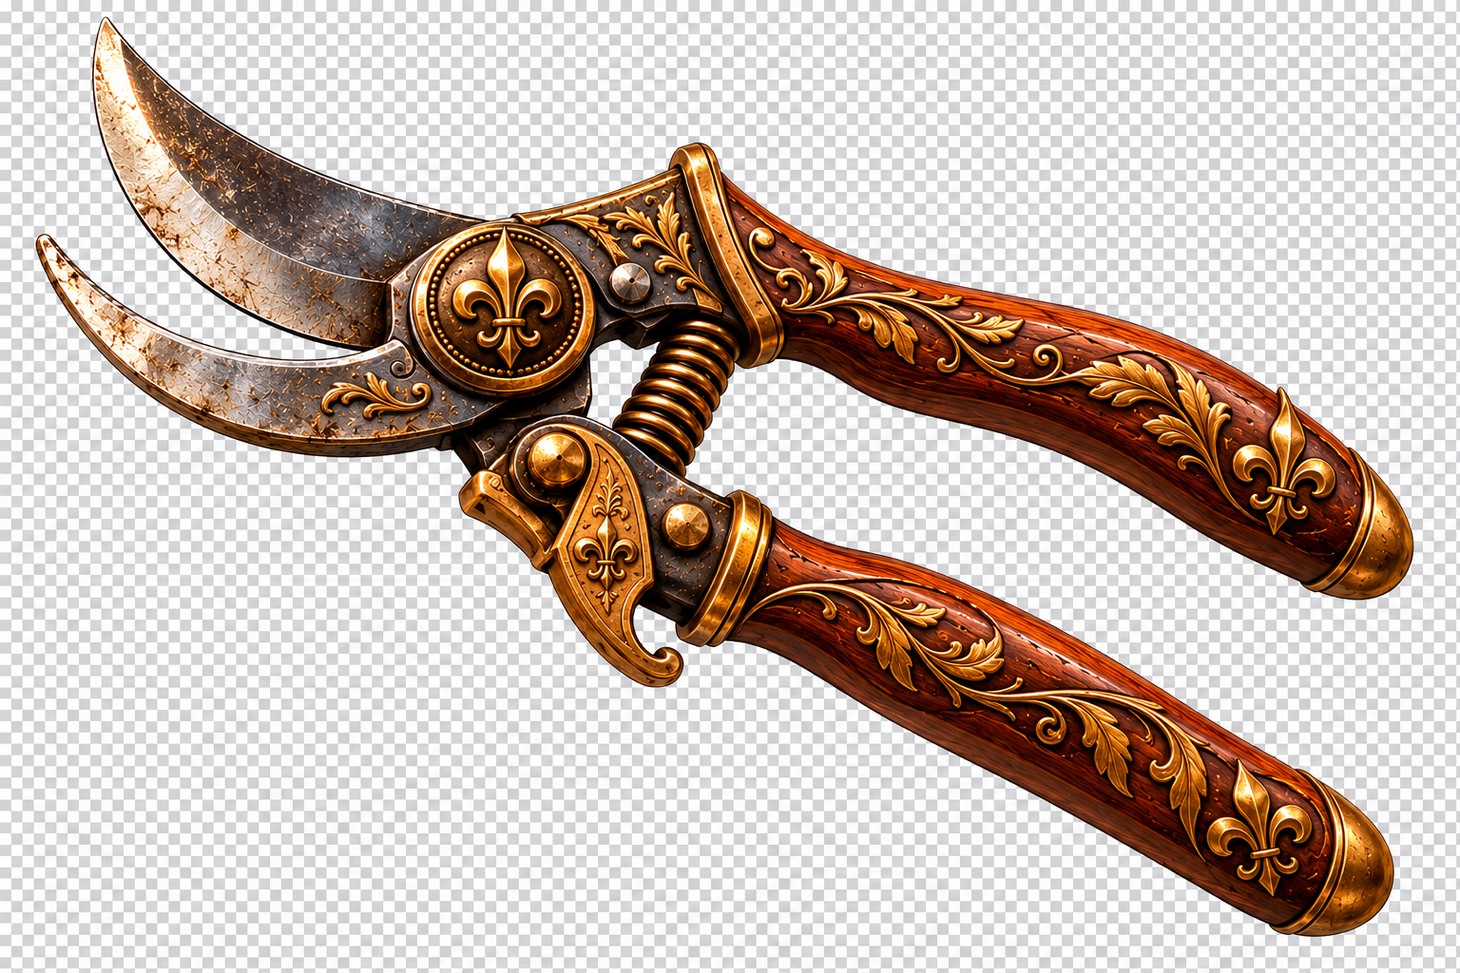
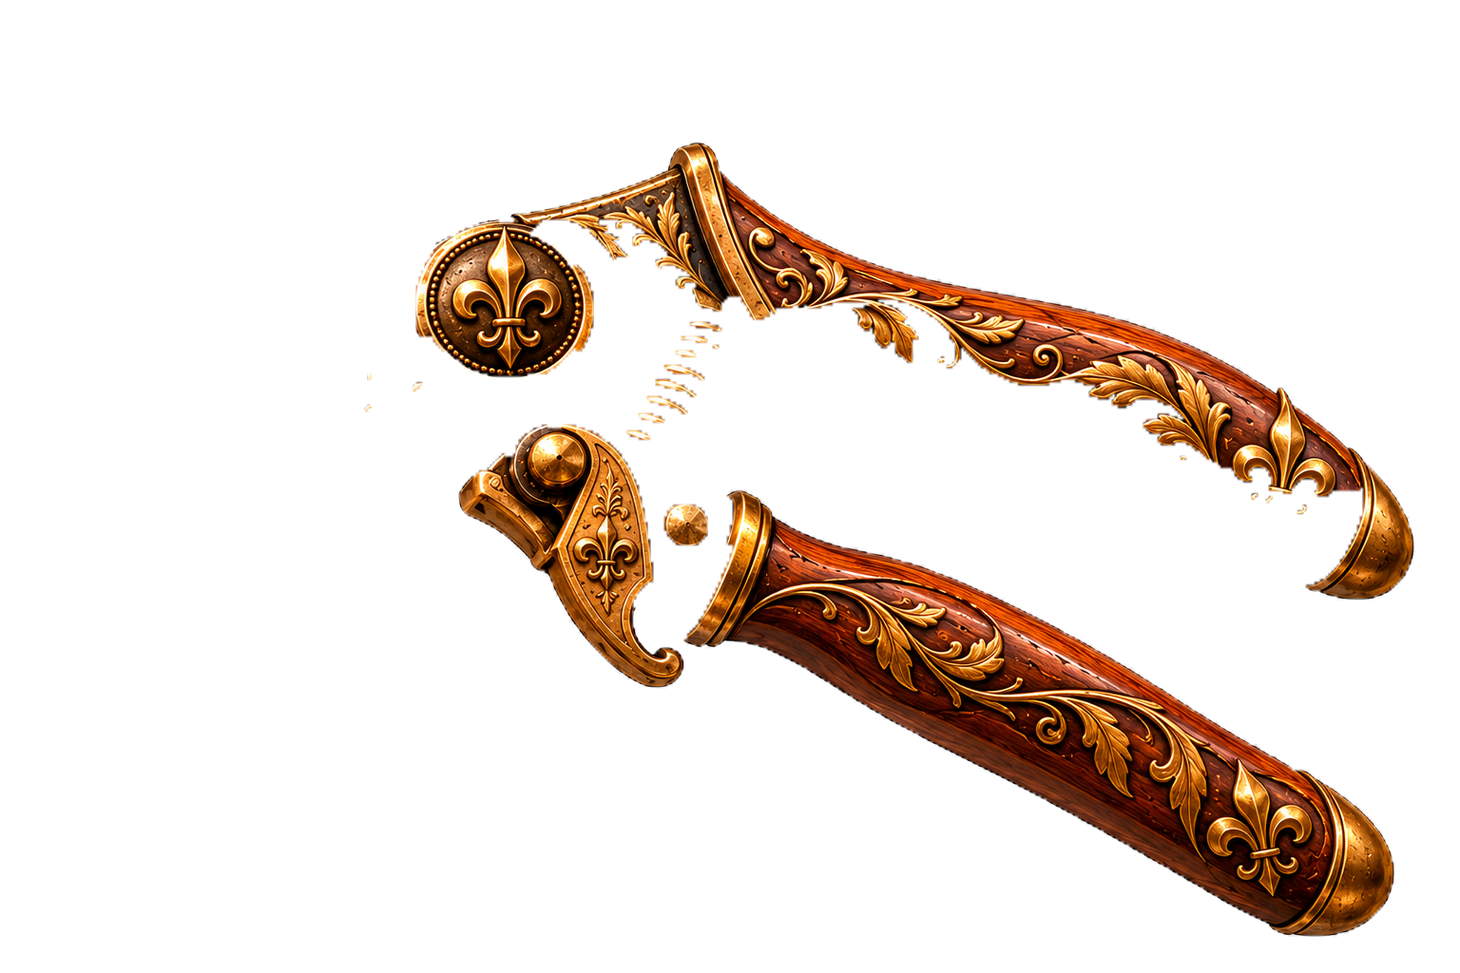
rmV12

diff --git a/index.html b/index.html
@@ -89,6 +89,21 @@ input,textarea,select{font-size:max(16px,1em)}
 .raven-answer{display:block;width:100%;text-align:left;margin:8px 0;padding:12px;border-radius:8px;border:1px solid #9a713b;background:#fff8e8;color:#30271d;font-size:15px;cursor:pointer;touch-action:manipulation}
 .raven-answer:focus-visible{outline:3px solid #715126}
 #raven-result{font-weight:bold;margin-top:10px}
+</style><style id="v12-visibility-fixes">
+/* Fixed targets: no hover motion or shifting borders */
+.room-hd-scene .scene-hotspot.object-pin,.room-hd-scene .scene-hotspot.object-pin:is(:hover,:active,:focus,:focus-visible,.is-selected){transform:translate(-50%,-50%)!important;animation:none!important;transition:none!important;outline-offset:0!important;}
+.room-hd-scene .scene-hotspot.object-pin{border:3px solid #e9c37a!important;box-sizing:border-box!important;}
+.room-hd-scene .scene-hotspot.object-pin.is-selected{border:3px solid #fff0ab!important;box-shadow:0 0 0 4px #e0ad42!important;}
+.scene-callout{position:absolute;left:50%;top:3%;transform:translateX(-50%);background:#081a26ed;border:1px solid #f0ce88;color:#fff1ce;padding:7px 12px;border-radius:6px;z-index:2;pointer-events:none;font-weight:800;font-size:clamp(10px,1.8vw,14px);white-space:nowrap}
+.object-preview{border:3px solid #e4b75f!important;background:#102f39!important;min-height:130px!important}
+.scene-feedback{border:3px solid #b58732!important;background:#fff1cf!important;color:#32200c!important;font-size:16px!important}
+.raven-answer{display:block;width:100%;margin:9px 0;padding:12px;border:2px solid #856231;border-radius:8px;background:#fffaf0;color:#201d19;text-align:left;cursor:pointer;min-height:46px}
+.raven-answer:hover,.raven-answer:focus-visible{background:#ffe1a2}
+.map-redesigned .map-pin{width:34px!important;height:34px!important;min-width:34px!important;padding:0!important;border-radius:50%!important;display:flex!important;align-items:center;justify-content:center;font-size:13px!important;transform:translate(-50%,-50%)!important;animation:none!important;transition:none!important}
+.map-redesigned .map-pin span{display:inline!important;position:static!important;transform:none!important;font-size:13px!important;white-space:nowrap!important;padding:0!important;background:none!important;border:0!important}
+.map-redesigned .pin-5{left:82%!important;top:78%!important}
+.map-redesigned .pin-7{left:32%!important;top:82%!important}
+@media(max-width:650px){.map-redesigned .map-pin{width:29px!important;height:29px!important;min-width:29px!important}}
 </style></head>
 <body>
 <div id="app" aria-live="polite"></div>
@@ -185,7 +200,7 @@ function home(){shell(`<div class="hero-layout"><section class="hero-art" id="he
 function cases(){shell(`<div class="section-head"><div><span class="eyebrow">The collection</span><h1>Case Files</h1><p class="dim">One complete investigation is available in this first edition. More cases are planned.</p></div><span class="ribbon">VICTORIAN MYSTERIES</span></div><div class="cases">${CASES.map(c=>`<article class="case-card ${c[3]!=='playable'?'locked':''}" style="--cover:url('${c[4]}')"><div class="badge">${c[3]==='playable'?'PLAY NOW':'COMING SOON'}</div><span class="eyebrow">FILE ${c[0]}</span><h3>${esc(c[1])}</h3><p>${esc(c[2])}</p><button ${c[3]==='playable'?'':'disabled'} class="${c[3]==='playable'?'gold-btn':'outline-btn'}" data-action="go" data-id="board">${c[3]==='playable'?'Start investigation →':'Locked'}</button></article>`).join('')}</div>`)}
 function card(s,active=false){return `<button class="portrait-card ${active?'active':''}" data-action="interrogate" data-id="${s.id}" style="border-top:5px solid ${s.accent}"><div class="face" data-portrait="${s.legacy}"><img src="${PORTRAIT_IMAGES[s.id]}" alt="Portrait of ${esc(s.name)}"></div><strong>${esc(s.name)}</strong><span class="role">${esc(s.role)}</span></button>`}
 function statPanel(){const n=S.clues.length;const asked=new Set(S.questions.map(q=>q.suspect)).size;return `<div class="panel side-card"><h3>Investigation progress</h3><div class="label-row"><span>Evidence discovered</span><b>${n}/7</b></div><div class="progress"><span style="width:${n/7*100}%"></span></div><div class="label-row" style="margin-top:15px"><span>Suspects questioned</span><b>${asked}/7</b></div><div class="progress"><span style="width:${asked/7*100}%"></span></div><div class="btnrow" style="margin-top:18px"><button class="outline-btn" data-action="go" data-id="notebook">Open notebook</button></div></div>`}
-function board(){shell(`<div class="section-head"><div><span class="eyebrow">Case 001 · Murder at Ravensmoor</span><h1>The Mystery Board</h1><p class="dim">Choose a room. Explore the evidence. Then question the witnesses.</p></div><span class="ribbon">${S.clues.length}/8 CLUES</span></div><div class="game-grid"><section class="panel"><div class="map-title"><span class="smallcaps">Ravensmoor Estate · Floor plan</span><span class="smallcaps">SELECT A ROOM ↓</span></div><div class="map-frame map-redesigned"><img src="assets/board-v7.webp" alt="Plan original du manoir avec sept salles, sans texte incrusté"><div class="map-hotspots">${ROOMS.map((r,i)=>`<button class="map-pin pin-${i}" data-action="room" data-id="${r.id}" aria-label="Explore ${esc(r.name)}"><span>${esc(r.name)}</span>${f(r.id)?" ✓":""}</button>`).join('')}</div></div><div class="rooms">${ROOMS.map(r=>`<button class="room ${f(r.id)?'found':''}" data-action="room" data-id="${r.id}"><span class="icon">${r.icon}</span><strong>${esc(r.name)}</strong>${f(r.id)?'<span class="findtag">✓ Evidence found</span>':''}</button>`).join('')}</div></section><aside class="right-stack"><div class="parchment"><span class="smallcaps" style="color:#8b6034">Detective's mission</span><h3 style="margin-top:12px">A question changes everything.</h3><p>Lord Ashford was found dead. Everyone claims to know where they were. But which statements can you trust?</p><ol class="mission-list"><li class="${S.clues.length>=3?'done':''}">Investigate at least three rooms.</li><li class="${new Set(S.questions.map(q=>q.suspect)).size>=2?'done':''}">Question at least two suspects.</li><li class="${S.grammar.length>=1?'done':''}">Complete a language challenge.</li><li class="${S.solved?'done':''}">Present your final theory.</li></ol></div>${statPanel()}<div class="panel panel-pad"><span class="eyebrow">Need a language clue?</span><h3 style="color:#f6d493;margin:12px 0">Detective's Language Lab</h3><p class="dim">Why <em>had left</em> and <em>had been waiting</em>? Explore meaning, not just grammar rules.</p><button class="outline-btn" data-action="go" data-id="lab">Open the lab →</button></div></aside></div>`)}
+function board(){shell(`<div class="section-head"><div><span class="eyebrow">Case 001 · Murder at Ravensmoor</span><h1>The Mystery Board</h1><p class="dim">Choose a room. Explore the evidence. Then question the witnesses.</p></div><span class="ribbon">${S.clues.length}/8 CLUES</span></div><div class="game-grid"><section class="panel"><div class="map-title"><span class="smallcaps">Ravensmoor Estate · Floor plan</span><span class="smallcaps">SELECT A ROOM ↓</span></div><div class="map-frame map-redesigned"><img src="assets/board-v7.webp" alt="Plan original du manoir avec sept salles, sans texte incrusté"><div class="map-hotspots">${ROOMS.map((r,i)=>`<button class="map-pin pin-${i}" data-action="room" data-id="${r.id}" aria-label="Explore ${esc(r.name)}"><span>${i+1}</span>${f(r.id)?" ✓":""}</button>`).join('')}</div></div><div class="rooms">${ROOMS.map(r=>`<button class="room ${f(r.id)?'found':''}" data-action="room" data-id="${r.id}"><span class="icon">${r.icon}</span><strong>${esc(r.name)}</strong>${f(r.id)?'<span class="findtag">✓ Evidence found</span>':''}</button>`).join('')}</div></section><aside class="right-stack"><div class="parchment"><span class="smallcaps" style="color:#8b6034">Detective's mission</span><h3 style="margin-top:12px">A question changes everything.</h3><p>Lord Ashford was found dead. Everyone claims to know where they were. But which statements can you trust?</p><ol class="mission-list"><li class="${S.clues.length>=3?'done':''}">Investigate at least three rooms.</li><li class="${new Set(S.questions.map(q=>q.suspect)).size>=2?'done':''}">Question at least two suspects.</li><li class="${S.grammar.length>=1?'done':''}">Complete a language challenge.</li><li class="${S.solved?'done':''}">Present your final theory.</li></ol></div>${statPanel()}<div class="panel panel-pad"><span class="eyebrow">Need a language clue?</span><h3 style="color:#f6d493;margin:12px 0">Detective's Language Lab</h3><p class="dim">Why <em>had left</em> and <em>had been waiting</em>? Explore meaning, not just grammar rules.</p><button class="outline-btn" data-action="go" data-id="lab">Open the lab →</button></div></aside></div>`)}
 function suspects(){shell(`<div class="section-head"><div><span class="eyebrow">Witnesses and suspects</span><h1>The Suspect Gallery</h1><p class="dim">Choose a portrait to start questioning. Every witness has a story to tell.</p></div><span class="ribbon">7 PERSONS OF INTEREST</span></div><div class="suspect-grid">${SUSPECTS.map(s=>card(s)).join('')}</div><div class="panel panel-pad" style="margin-top:23px"><span class="eyebrow">Your detective level</span><h3 style="margin:11px 0;color:#ffe1aa">How much help would you like?</h3><div class="btnrow">${[['rookie','Rookie · A2 (sentence starters)'],['skilled','Skilled · A2+/B1 (hints)'],['master','Master · B1 (independent)']].map(([id,t])=>`<button class="${S.level===id?'gold-btn':'outline-btn'}" data-action="level" data-id="${id}">${t}</button>`).join('')}</div><p class="mini-note" style="margin-top:15px">All modes accept correctly formed past simple questions too, while encouraging past perfect questions when their meaning is appropriate. Questions are matched to a curated story, not to a generative chatbot.</p></div>`);applyArtwork()}
 function portraitLarge(s){return `<div class="face" data-portrait="${s.legacy}"><img src="${PORTRAIT_IMAGES[s.id]}" alt="Portrait of ${esc(s.name)}"></div>`}
 function interrogate(){const s=findSuspect(S.selected), conv=S.conversations[s.id]||[];shell(`<button class="backlink" data-action="go" data-id="suspects">← Back to suspect gallery</button><div class="section-head" style="margin-top:0"><div><span class="eyebrow">Interrogation room</span><h1>Question the witness</h1></div><span class="ribbon">${S.level.toUpperCase()} DETECTIVE</span></div><div class="two-col"><aside class="panel suspect-profile">${portraitLarge(s)}<div><h2>${esc(s.name)}</h2><p class="dim">${esc(s.role)}</p><p class="mini-note">Ask about an alibi, events <em>before</em> the incident, or an activity's duration.</p><button class="outline-btn" data-action="go" data-id="notebook">Review evidence</button></div></aside><section class="panel chat-panel"><div class="chat-header"><b>${esc(s.name)}</b><span class="dim" style="margin-left:10px;font-size:12px">Speak English to uncover the facts.</span></div><div id="chat-scroll" class="chat-messages">${conv.length?conv.map(m=>`<div class="bubble ${m.who}">${esc(m.text)}</div>`).join(''):`<div class="bubble assistant">Good evening, detective. ${esc(s.name)} speaking. What would you like to know?</div><div class="bubble feedback">Try asking: What had you done before dinner? / How long had you been working?</div>`}</div><div class="chat-controls"><form id="question-form" class="input-row"><input id="question" required maxlength="220" autocomplete="off" spellcheck="true" aria-label="Write your question in English" placeholder="Ask ${esc(s.name)} a question in English…"><button class="gold-btn" type="submit">Ask ➤</button></form>${S.level==='rookie'?`<div class="hintchips">${TOPICS.map(t=>`<button type="button" data-action="prefill" data-id="${esc(t[1])}">${esc(t[1])}</button>`).join('')}</div>`:S.level==='skilled'?`<div class="hintchips"><button data-action="prefill" data-id="What had you done before dinner?">Before the incident?</button><button data-action="prefill" data-id="How long had you been working?">Duration?</button><button data-action="prefill" data-id="Who can confirm your alibi?">A witness?</button></div>`:''}<div class="mini-note" style="margin-top:9px">Questions can begin with What, Where, Why, How long, Had, Who… • Press Enter to ask • Grammar feedback appears in the conversation.</div></div></section></div><div class="panel panel-pad" style="margin-top:20px"><span class="eyebrow">Another suspect?</span><div class="suspect-grid" style="margin-top:13px">${SUSPECTS.map(x=>card(x,x.id===s.id)).join('')}</div></div>`);applyArtwork();const el=$('#chat-scroll');if(el)el.scrollTop=el.scrollHeight}
@@ -203,7 +218,7 @@ if(/\bhad\s+(you|he|she|they)\b/.test(low)&&!/(been|done|left|seen|heard|gone|ar
 return{ok:true,hint:(!t.endsWith('?')?'Nice question. Remember the question mark. ':'')+(low.includes('had been')?'You used the past perfect continuous to focus on duration or activity.':low.includes('had ')?'You used the past perfect simple to ask about an earlier action.':'Good question! Ask a follow-up with “had” or “had been” to practise the target language.')};}
 function ask(q){const s=findSuspect(S.selected),analysis=analyseQuestion(q),msgs=S.conversations[s.id]||[];msgs.push({who:'user',text:q.trim()});if(!analysis.ok){msgs.push({who:'feedback',text:'Language tip: '+analysis.hint});S.conversations[s.id]=msgs;store();interrogate();return}
 const topic=questionType(q);msgs.push({who:'assistant',text:s[topic]});msgs.push({who:'feedback',text:analysis.hint});S.conversations[s.id]=msgs;S.questions.push({suspect:s.name,question:q.trim(),answer:s[topic],topic});store();interrogate();toast(`Statement saved in your notebook: ${s.name}`)}
-function room(id){const r=byId(ROOMS,id);if(!r)return;const found=f(id);shell(`<button class="backlink" data-action="go" data-id="board">← Back to the mystery board</button><div class="section-head" style="margin-top:0"><div><span class="eyebrow">Scene examination</span><h1>${r.icon} ${esc(r.name)}</h1><p class="dim">${esc(r.place)}</p></div><span class="ribbon">${found?'EVIDENCE COLLECTED':'UNEXPLORED'}</span></div><div class="game-grid"><section class="panel panel-pad"><div class="room-hd-scene"><img src="assets/room-${r.id}-hd.webp" alt="Victorian ${esc(r.name)} illustrated scene" loading="eager"><div class="scene-interact">${(OBJECTS[r.id]||[]).map((o,i)=>`<button class="scene-hotspot object-pin" data-action="scene-object" data-id="${r.id}" data-object="${i}" style="left:${[23,50,77][i]}%;top:${[72,50,72][i]}%" aria-label="Examine ${esc(o.name)}">${o.src?`<img class="scene-object-art" src="${o.src}" alt="" loading="lazy">`:`<span class="object-pin-symbol">⌕</span>`}<span class="object-label">${esc(o.name)}</span></button>`).join('')}</div></div><div id="object-preview" class="object-preview" aria-live="polite"><p>Select an object in the room to investigate it.</p></div><div class="scene-feedback" id="scene-feedback" role="status" aria-live="polite">Select an object to examine it, collect evidence and practise your English.</div><span class="eyebrow">Found at ${esc(r.time)}</span><h2 style="color:#f3d18c;margin:10px 0">${esc(r.clue)}</h2><div class="parchment"><p style="font-size:19px;line-height:1.9">${esc(r.text)}</p></div><div class="status"><strong>Language lens</strong><p style="margin:7px 0 0">${esc(r.tip)}</p></div>${found?`<div class="status success">✓ Saved in your detective's notebook.</div>`:`<button class="gold-btn" data-action="collect" data-id="${id}">✦ Collect this evidence</button>`}<div class="btnrow" style="margin-top:18px"><button class="outline-btn" data-action="go" data-id="suspects">Interrogate suspects →</button><button class="outline-btn" data-action="go" data-id="lab">Investigate the grammar →</button></div></section><aside class="right-stack">${statPanel()}<div class="parchment"><h3>Detective's reflection</h3><p><b>Before</b> the moment in this clue, what <em>had happened</em>? What <em>had been happening</em>? Which information could challenge an alibi?</p><p class="mini-note" style="color:#67563c">Explore another room if you need more information.</p></div></aside></div>`)}
+function room(id){const r=byId(ROOMS,id);if(!r)return;const found=f(id);shell(`<button class="backlink" data-action="go" data-id="board">← Back to the mystery board</button><div class="section-head" style="margin-top:0"><div><span class="eyebrow">Scene examination</span><h1>${r.icon} ${esc(r.name)}</h1><p class="dim">${esc(r.place)}</p></div><span class="ribbon">${found?'EVIDENCE COLLECTED':'UNEXPLORED'}</span></div><div class="game-grid"><section class="panel panel-pad"><div class="room-hd-scene"><img src="assets/room-${r.id}-hd.webp" alt="Victorian ${esc(r.name)} illustrated scene" loading="eager"><div class="scene-callout">🔎 TAP AN OBJECT TO INVESTIGATE</div><div class="scene-interact">${(OBJECTS[r.id]||[]).map((o,i)=>`<button class="scene-hotspot object-pin" data-action="scene-object" data-id="${r.id}" data-object="${i}" style="left:${[23,50,77][i]}%;top:${[72,50,72][i]}%" aria-label="Examine ${esc(o.name)}">${o.src?`<img class="scene-object-art" src="${o.src}" alt="" loading="lazy">`:`<span class="object-pin-symbol">🔎</span>`}<span class="object-label">${esc(o.name)}</span></button>`).join('')}</div></div><div id="object-preview" class="object-preview" aria-live="polite"><p>Tap an evidence icon above to reveal its clue and English challenge. Missing illustrations are shown with a magnifying glass.</p></div><div class="scene-feedback" id="scene-feedback" role="status" aria-live="polite">🔎 TAP AN OBJECT ABOVE — its clue and English challenge will appear here.</div><span class="eyebrow">Found at ${esc(r.time)}</span><h2 style="color:#f3d18c;margin:10px 0">${esc(r.clue)}</h2><div class="parchment"><p style="font-size:19px;line-height:1.9">${esc(r.text)}</p></div><div class="status"><strong>Language lens</strong><p style="margin:7px 0 0">${esc(r.tip)}</p></div>${found?`<div class="status success">✓ Saved in your detective's notebook.</div>`:`<button class="gold-btn" data-action="collect" data-id="${id}">✦ Collect this evidence</button>`}<div class="btnrow" style="margin-top:18px"><button class="outline-btn" data-action="go" data-id="suspects">Interrogate suspects →</button><button class="outline-btn" data-action="go" data-id="lab">Investigate the grammar →</button></div></section><aside class="right-stack">${statPanel()}<div class="parchment"><h3>Detective's reflection</h3><p><b>Before</b> the moment in this clue, what <em>had happened</em>? What <em>had been happening</em>? Which information could challenge an alibi?</p><p class="mini-note" style="color:#67563c">Explore another room if you need more information.</p></div></aside></div>`)}
 function notebook(){const tabs=[['evidence','Evidence'],['timeline','Timeline'],['questions','My questions'],['grammar','Grammar notes'],['theory','My theory']];let inner='';if(S.tab==='evidence')inner=`<div class="evidence-list">${S.clues.length?ROOMS.filter(r=>f(r.id)).map(r=>`<article class="evidence-item"><span class="tag">${esc(r.name)} · ${esc(r.time)}</span><h3>${esc(r.clue)}</h3><p>${esc(r.text)}</p></article>`).join(''):'<p class="dim">No clues yet. Explore the mystery board to collect your first clue.</p>'}</div>`;
 if(S.tab==='timeline')inner=`<p class="dim">Your working timeline. The activities in the Language Lab help you decide what happened first.</p><div class="timeline">${[['6:00 PM','Colonel Hartley had argued with Lord Ashford.'],['8:30 PM','The card game began.'],['9:30 PM','Joe Stubbs had finished in the greenhouse.'],['10:00 PM','Clara heard footsteps.'],['10:15 PM','An upstairs note was added to the duty book.']].map(x=>`<div class="time-item"><span class="time">${x[0]}</span><span>${x[1]}</span></div>`).join('')}</div>`;
 if(S.tab==='questions')inner=S.questions.length?`<div class="evidence-list">${S.questions.slice().reverse().map(x=>`<div class="evidence-item"><span class="tag">${esc(x.suspect)}</span><h3>${esc(x.question)}</h3><p>${esc(x.answer)}</p></div>`).join('')}</div>`:'<p class="dim">Your interview questions and answers will appear here.</p>';
@@ -258,6 +273,7 @@ const RAVENSMOOR_TASKS = [
  {prompt:'Which sentence describes an activity continuing before another past event?',options:['Someone had been waiting for an hour before dinner began.','Someone has waited before dinner began.','Someone had waiting before dinner began.'],answer:0,why:'Had been + -ing highlights the duration of an earlier activity.'},
  {prompt:'Choose the most useful detective question about an earlier action.',options:['What had happened before the clock stopped?','What has happen before the clock stopped?','What had been happen before the clock stopped?'],answer:0,why:'What had happened? uses the past perfect simple for an earlier event.'}
 ];
+const RAVEN_OBJECT_CLUES={"library": ["The book had been moved before the librarian returned.", "The envelope had already been sealed when the guests arrived.", "The clock had stopped before the housekeeper entered."], "dining": ["Someone had been drinking from this glass before dinner ended.", "The napkin had been embroidered long before the party.", "The invitation had been delivered before the guests arrived."], "study": ["The diary had been hidden before the detective entered.", "Someone had taken the key before the study was locked.", "The watch had stopped before the final witness arrived."], "kitchen": ["The tray had been polished before the last course was served.", "The cook had been preparing dinner for hours.", "The bottle had been moved before the kitchen was closed."], "garden": ["The gardener had been wearing these gloves before leaving the greenhouse.", "Someone had been trimming the roses before the storm began.", "The plant had been watered before the gardener returned."], "drawing": ["The photograph had been taken years before the murder.", "The jewellery box had been opened before the guests entered.", "Someone had been carrying the handkerchief before tea."], "hall": ["The umbrella had been left here before the rain began.", "Someone had torn the ticket before arriving at the manor.", "The cane had been standing by the door all evening."], "billiard": ["The players had been practising before the match began.", "Someone had placed the card on the table before the lights went out.", "The cufflinks had fallen before the players left."]};
 let ravenSelected = null;
 document.addEventListener('click', function(ev){
  const btn=ev.target.closest('[data-action="scene-object"]');
@@ -267,11 +283,11 @@ document.addEventListener('click', function(ev){
   ravenSelected={id,i};
   document.querySelectorAll('.scene-hotspot.object-pin').forEach(el=>{el.classList.toggle('is-selected',el===btn);el.setAttribute('aria-pressed',String(el===btn));});
   const task=RAVENSMOOR_TASKS[i%3],preview=document.getElementById('object-preview'),feedback=document.getElementById('scene-feedback');
-  if(preview){preview.replaceChildren();if(o.src){const im=document.createElement('img');im.src=o.src;im.alt=o.name;preview.append(im);}const wrap=document.createElement('div');const title=document.createElement('strong');title.textContent=o.name;const clue=document.createElement('p');clue.textContent=r.text;wrap.append(title,clue);preview.append(wrap);}
-  if(feedback){feedback.replaceChildren();const h=document.createElement('strong');h.textContent='LANGUAGE CHALLENGE · '+o.name;const q=document.createElement('p');q.textContent=task.prompt;feedback.append(h,q);task.options.forEach((choice,n)=>{const answer=document.createElement('button');answer.type='button';answer.className='raven-answer';answer.textContent=choice;answer.dataset.answer=String(n);feedback.append(answer);});const result=document.createElement('p');result.id='raven-result';result.setAttribute('role','status');feedback.append(result);}
+  if(preview){preview.replaceChildren();if(o.src){const im=document.createElement('img');im.src=o.src;im.alt=o.name;preview.append(im);}const wrap=document.createElement('div');const title=document.createElement('strong');title.textContent=o.name;const clue=document.createElement('p');clue.textContent=RAVEN_OBJECT_CLUES[id]?.[i]||r.text;wrap.append(title,clue);preview.append(wrap);}
+  if(feedback){feedback.replaceChildren();const h=document.createElement('strong');h.textContent='🔎 EVIDENCE DISCOVERED · '+o.name;const q=document.createElement('p');q.textContent=task.prompt;feedback.append(h,q);task.options.forEach((choice,n)=>{const answer=document.createElement('button');answer.type='button';answer.className='raven-answer';answer.textContent=choice;answer.dataset.answer=String(n);feedback.append(answer);});const result=document.createElement('p');result.id='raven-result';result.setAttribute('role','status');feedback.append(result);}
   return;
  }
- const answer=ev.target.closest('.raven-answer');if(answer&&ravenSelected){ev.preventDefault();const task=RAVENSMOOR_TASKS[ravenSelected.i%3],correct=Number(answer.dataset.answer)===task.answer;const result=document.getElementById('raven-result');if(result)result.textContent=(correct?'✓ Correct! ':'Try again. ')+task.why;}
+ const answer=ev.target.closest('.raven-answer');if(answer&&ravenSelected){ev.preventDefault();const task=RAVENSMOOR_TASKS[ravenSelected.i%3],correct=Number(answer.dataset.answer)===task.answer;const result=document.getElementById('raven-result');if(result)result.textContent=(correct?'✓ Correct! ':'Not quite. ')+task.why;}
 },true);
 </script>
 </body>
